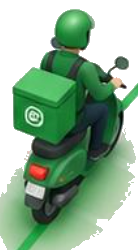
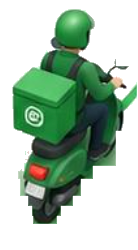
feat: clean 3D courier asset & implement interactive Swipe to Deliver slider button

diff --git a/lib/widgets/swipe_to_deliver_button.dart b/lib/widgets/swipe_to_deliver_button.dart
@@ -1,0 +1,181 @@
+import 'package:flutter/material.dart';
+import 'package:flutter/services.dart';
+
+/// A modern interactive "Swipe to Deliver" slider button matching reference design:
+/// - Rounded purple/indigo pill container
+/// - Centered bold "Delivered" label that gently fades on swipe
+/// - Circular white draggable handle with '>' chevron
+/// - Spring-back physics if released early (<75%)
+/// - Heavy haptic vibration & instant delivery confirmation on full swipe
+class SwipeToDeliverButton extends StatefulWidget {
+  final VoidCallback onDelivered;
+  final String label;
+  final double height;
+  final Color baseColor;
+  final Color thumbColor;
+
+  const SwipeToDeliverButton({
+    super.key,
+    required this.onDelivered,
+    this.label = 'Delivered',
+    this.height = 54.0,
+    this.baseColor = const Color(0xFF6B58D8),
+    this.thumbColor = Colors.white,
+  });
+
+  @override
+  State<SwipeToDeliverButton> createState() => _SwipeToDeliverButtonState();
+}
+
+class _SwipeToDeliverButtonState extends State<SwipeToDeliverButton>
+    with SingleTickerProviderStateMixin {
+  double _dragPosition = 0.0;
+  bool _isCompleted = false;
+  late AnimationController _resetController;
+  late Animation<double> _resetAnimation;
+
+  @override
+  void initState() {
+    super.initState();
+    _resetController = AnimationController(
+      vsync: this,
+      duration: const Duration(milliseconds: 250),
+    );
+    _resetAnimation = Tween<double>(begin: 0, end: 0).animate(
+      CurvedAnimation(parent: _resetController, curve: Curves.easeOutCubic),
+    )..addListener(() {
+        setState(() {
+          _dragPosition = _resetAnimation.value;
+        });
+      });
+  }
+
+  @override
+  void dispose() {
+    _resetController.dispose();
+    super.dispose();
+  }
+
+  void _onDragUpdate(DragUpdateDetails details, double maxDrag) {
+    if (_isCompleted) return;
+    setState(() {
+      _dragPosition = (_dragPosition + details.delta.dx).clamp(0.0, maxDrag);
+    });
+  }
+
+  void _onDragEnd(DragEndDetails details, double maxDrag) {
+    if (_isCompleted) return;
+    if (_dragPosition >= maxDrag * 0.75) {
+      // Confirmed delivery!
+      setState(() {
+        _isCompleted = true;
+        _dragPosition = maxDrag;
+      });
+      HapticFeedback.heavyImpact();
+      Future.delayed(const Duration(milliseconds: 200), () {
+        if (mounted) {
+          widget.onDelivered();
+        }
+      });
+    } else {
+      // Spring back to start
+      _resetAnimation = Tween<double>(
+        begin: _dragPosition,
+        end: 0.0,
+      ).animate(
+        CurvedAnimation(parent: _resetController, curve: Curves.easeOutCubic),
+      );
+      _resetController.forward(from: 0.0);
+    }
+  }
+
+  @override
+  Widget build(BuildContext context) {
+    return LayoutBuilder(
+      builder: (context, constraints) {
+        final totalWidth = constraints.maxWidth;
+        final thumbSize = widget.height - 8;
+        final maxDrag = (totalWidth - thumbSize - 8).clamp(0.0, totalWidth);
+        final progress = maxDrag > 0 ? (_dragPosition / maxDrag).clamp(0.0, 1.0) : 0.0;
+
+        return GestureDetector(
+          // Allow swiping across the whole pill track as well
+          onHorizontalDragUpdate: (details) => _onDragUpdate(details, maxDrag),
+          onHorizontalDragEnd: (details) => _onDragEnd(details, maxDrag),
+          child: Container(
+            height: widget.height,
+            width: totalWidth,
+            decoration: BoxDecoration(
+              gradient: const LinearGradient(
+                colors: [
+                  Color(0xFF6351CE),
+                  Color(0xFF6B58D8),
+                  Color(0xFF755EE8),
+                  Color(0xFF7F63EF),
+                ],
+                begin: Alignment.centerLeft,
+                end: Alignment.centerRight,
+              ),
+              borderRadius: BorderRadius.circular(widget.height / 2),
+              boxShadow: [
+                BoxShadow(
+                  color: const Color(0xFF6B58D8).withValues(alpha: 0.38),
+                  blurRadius: 12,
+                  offset: const Offset(0, 4),
+                ),
+              ],
+            ),
+            child: Stack(
+              alignment: Alignment.centerLeft,
+              children: [
+                // Center Label (Gently fades as slider moves across)
+                Center(
+                  child: Opacity(
+                    opacity: (1.0 - (progress * 1.3)).clamp(0.0, 1.0),
+                    child: Text(
+                      widget.label,
+                      style: const TextStyle(
+                        color: Colors.white,
+                        fontSize: 16.5,
+                        fontWeight: FontWeight.w700,
+                        letterSpacing: 0.3,
+                      ),
+                    ),
+                  ),
+                ),
+
+                // Draggable circular thumb
+                Positioned(
+                  left: 4 + _dragPosition,
+                  top: 4,
+                  child: Container(
+                    width: thumbSize,
+                    height: thumbSize,
+                    decoration: BoxDecoration(
+                      color: widget.thumbColor,
+                      shape: BoxShape.circle,
+                      boxShadow: [
+                        BoxShadow(
+                          color: Colors.black.withValues(alpha: 0.22),
+                          blurRadius: 6,
+                          offset: const Offset(0, 2),
+                        ),
+                      ],
+                    ),
+                    child: Center(
+                      child: Icon(
+                        _isCompleted ? Icons.check_rounded : Icons.chevron_right_rounded,
+                        color: const Color(0xFF6B58D8),
+                        size: 28,
+                      ),
+                    ),
+                  ),
+                ),
+              ],
+            ),
+          ),
+        );
+      },
+    );
+  }
+}

diff --git a/lib/screens/delivery_route_map_screen.dart b/lib/screens/delivery_route_map_screen.dart
@@ -7,6 +7,7 @@ import '../core/constants/nassau_route_data.dart';
 import '../core/theme/app_colors.dart';
 import '../models/delivery_order.dart';
 import '../state/staff_state_scope.dart';
+import '../widgets/swipe_to_deliver_button.dart';
 
 class DeliveryRouteMapScreen extends StatefulWidget {
   final DeliveryOrder order;
@@ -418,35 +419,21 @@ class _DeliveryRouteMapScreenState extends State<DeliveryRouteMapScreen>
                     ],
                   ),
                   const SizedBox(height: 14),
-                  SizedBox(
-                    width: double.infinity,
-                    height: 46,
-                    child: ElevatedButton.icon(
-                      style: ElevatedButton.styleFrom(
-                        backgroundColor: AppColors.limeGreen,
-                        foregroundColor: Colors.white,
-                        shape: RoundedRectangleBorder(
-                          borderRadius: BorderRadius.circular(14),
+                  // Interactive "Swipe to Deliver" slider matching reference design
+                  SwipeToDeliverButton(
+                    label: 'Delivered',
+                    height: 52,
+                    onDelivered: () {
+                      final state = StaffStateScope.read(context);
+                      state.updateOrderStatus(widget.order.id, DeliveryOrderStatus.delivered);
+                      Navigator.of(context).pop();
+                      ScaffoldMessenger.of(context).showSnackBar(
+                        SnackBar(
+                          content: Text('Order #${widget.order.id} marked as Delivered! 🎉'),
+                          backgroundColor: const Color(0xFF6B58D8),
                         ),
-                        elevation: 0,
-                      ),
-                      icon: const Icon(Icons.check_circle_outline_rounded, size: 20),
-                      label: const Text(
-                        'Mark Order Delivered at Doorstep',
-                        style: TextStyle(fontWeight: FontWeight.bold, fontSize: 14),
-                      ),
-                      onPressed: () {
-                        final state = StaffStateScope.read(context);
-                        state.updateOrderStatus(widget.order.id, DeliveryOrderStatus.delivered);
-                        Navigator.of(context).pop();
-                        ScaffoldMessenger.of(context).showSnackBar(
-                          SnackBar(
-                            content: Text('Order #${widget.order.id} marked as Delivered! 🎉'),
-                            backgroundColor: AppColors.limeGreenDark,
-                          ),
-                        );
-                      },
-                    ),
+                      );
+                    },
                   ),
                 ],
               ),
@@ -587,15 +574,25 @@ class _DeliveryRouteMapScreenState extends State<DeliveryRouteMapScreen>
         ),
         const SizedBox(height: 2),
 
-        // 3D Isometric Green Courier on Scooter
-        Transform.rotate(
-          angle: heading,
-          child: Image.asset(
-            'assets/images/delivery_boy_3d.png',
-            width: 52,
-            height: 70,
-            fit: BoxFit.contain,
-          ),
+        // 3D Isometric Green Courier on Scooter (Upright & smooth corner leaning)
+        Builder(
+          builder: (context) {
+            final isWestbound = math.sin(heading) < 0;
+            final banking = (math.cos(heading) * 0.12).clamp(-0.16, 0.16);
+
+            return Transform.rotate(
+              angle: banking,
+              child: Transform.scale(
+                scaleX: isWestbound ? -1.0 : 1.0,
+                child: Image.asset(
+                  'assets/images/delivery_boy_3d.png',
+                  width: 54,
+                  height: 72,
+                  fit: BoxFit.contain,
+                ),
+              ),
+            );
+          },
         ),
       ],
     );

diff --git a/lib/screens/order_details_screen.dart b/lib/screens/order_details_screen.dart
@@ -8,6 +8,7 @@ import '../core/widgets/primary_button.dart';
 import '../core/widgets/status_chip.dart';
 import '../models/delivery_order.dart';
 import '../state/staff_state_scope.dart';
+import '../widgets/swipe_to_deliver_button.dart';
 import 'delivery_route_map_screen.dart';
 
 class OrderDetailsScreen extends StatefulWidget {
@@ -693,16 +694,20 @@ class _OrderDetailsScreenState extends State<OrderDetailsScreen> {
                         width: double.infinity,
                         onPressed: () => _handleMarkOutForDelivery(order),
                       )
-                    else
+                    else if (order.orderType == 'pickup')
                       PrimaryButton(
-                        text: order.orderType == 'pickup'
-                            ? 'Complete Customer Pickup'
-                            : 'Mark Order as Delivered',
+                        text: 'Complete Customer Pickup',
                         icon: Icons.check_circle_rounded,
                         variant: ButtonVariant.success,
                         isLoading: _isProcessing,
                         width: double.infinity,
                         onPressed: () => _handleConfirmDelivered(order),
+                      )
+                    else
+                      SwipeToDeliverButton(
+                        label: 'Delivered',
+                        height: 52,
+                        onDelivered: () => _handleConfirmDelivered(order),
                       ),
                   ],
                 ),
